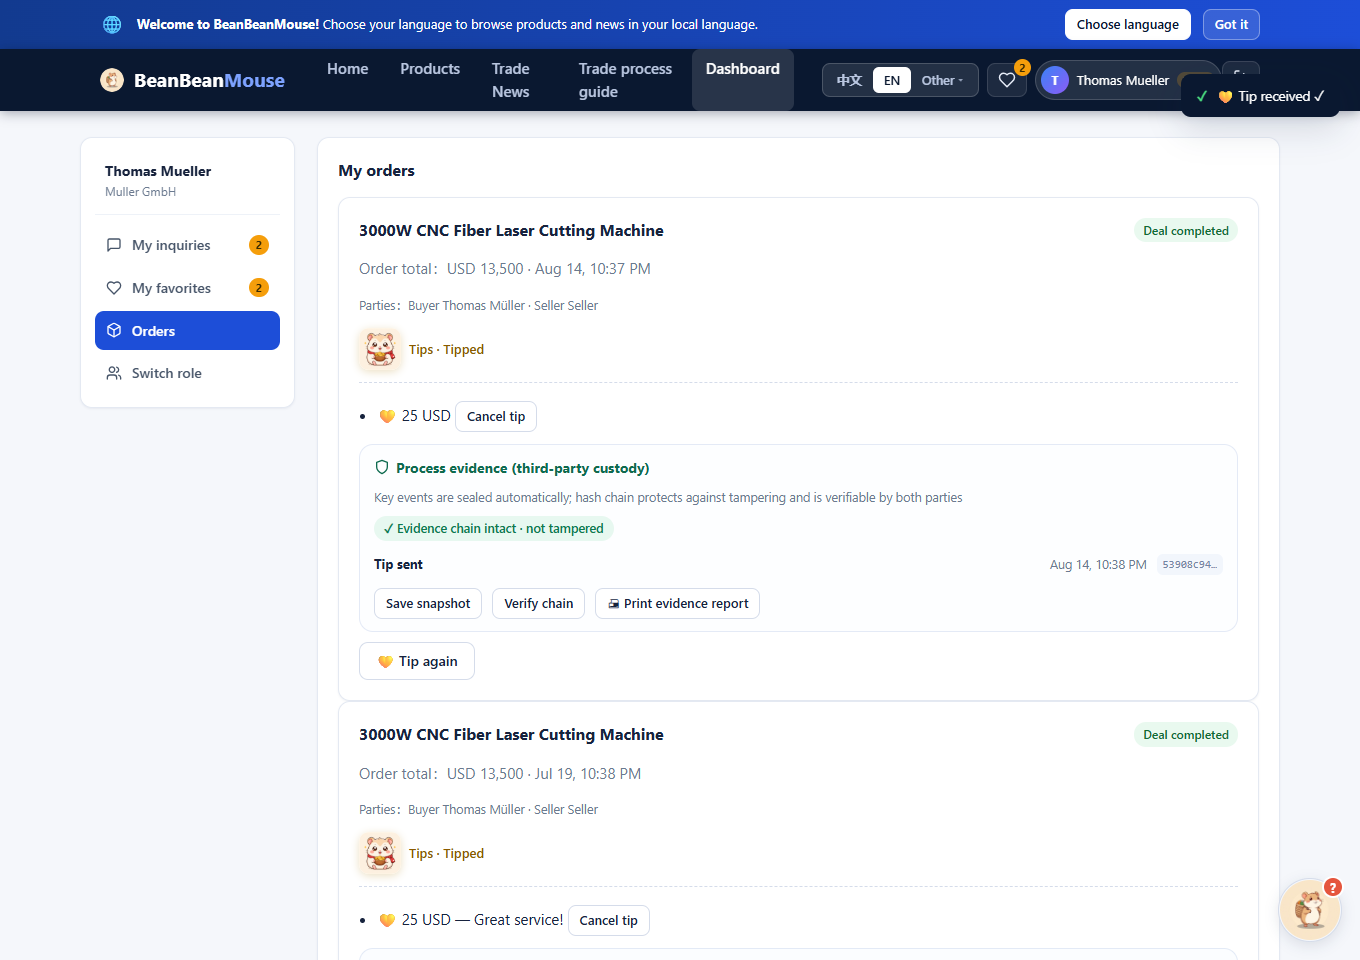
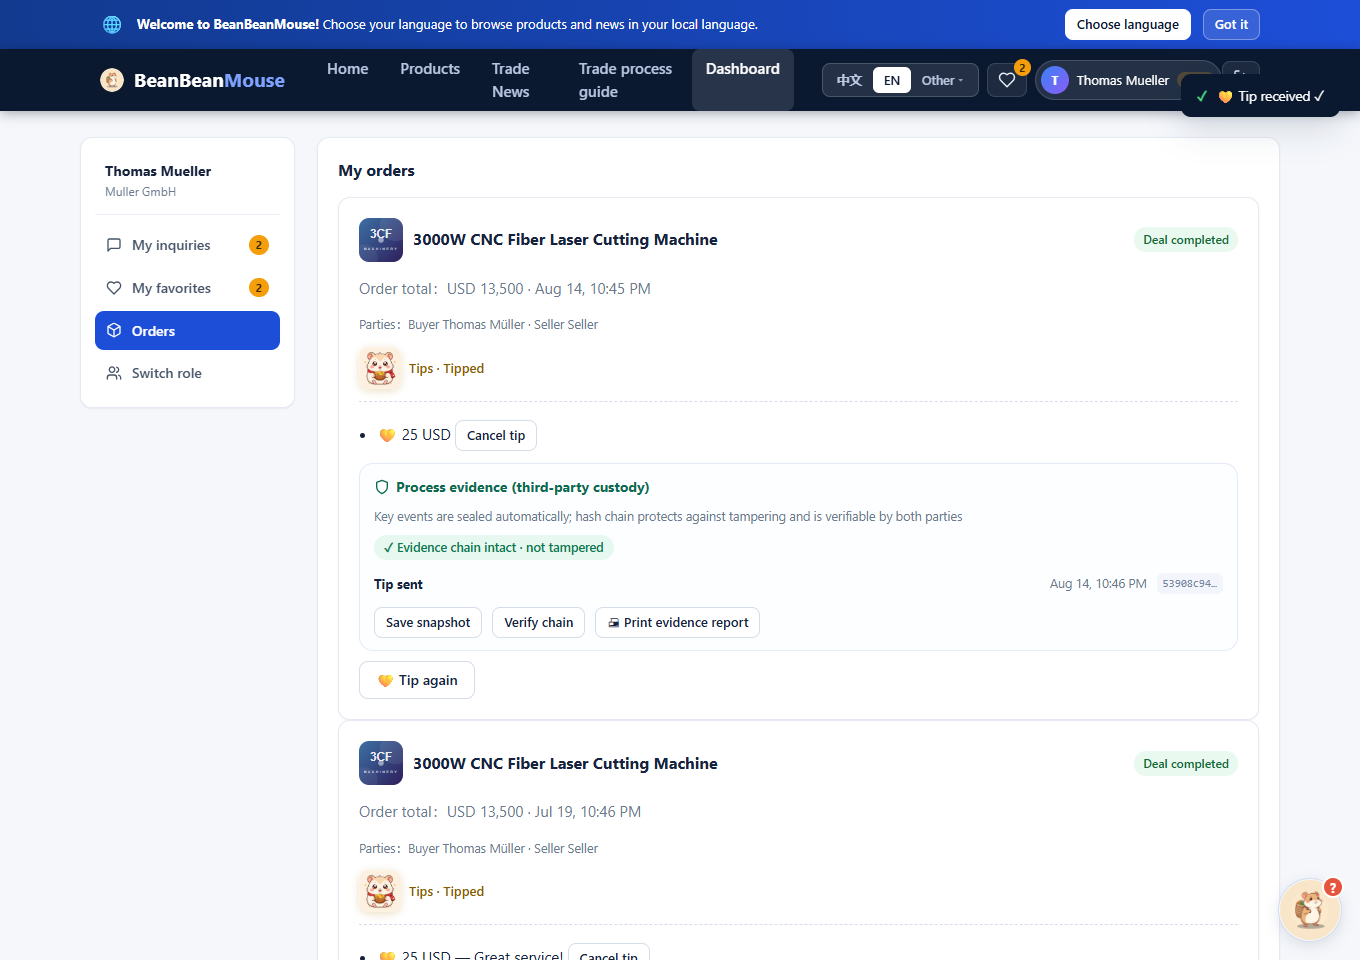
Frontend deep polish: modal focus trap + scroll lock + aria-labelledby, action-button anti double-click with 20s safety, tip quick amounts, order thumbnails, evidence report seal/QR & print breaks, small-screen modal fit, aria states; tests extended

diff --git a/app.js b/app.js
@@ -428,7 +428,14 @@ document.addEventListener('submit', e => {
   const f = e.target;
   const btn = f.querySelector('button[type="submit"]');
   if (btn) { btn.disabled = true; btn.classList.add('busy'); }
-  const release = () => { if (btn) { btn.disabled = false; btn.classList.remove('busy'); } };
+  let released = false;
+  const release = () => {
+    if (released) return;
+    released = true;
+    clearTimeout(safety);
+    if (btn) { btn.disabled = false; btn.classList.remove('busy'); }
+  };
+  const safety = setTimeout(release, 20000);
   let p = null;
   if (f.dataset.form === 'inquiry-form') p = submitInquiry(f);
   else if (f.dataset.form === 'product-form') p = submitProduct(f);
@@ -443,6 +450,23 @@ document.addEventListener('submit', e => {
   else release();
 });
 
+/* 动作按钮防连点：禁用→执行→恢复，20 秒兜底防止卡死 */
+function runBusy(btn, fn) {
+  if (!btn) return Promise.resolve(fn && fn());
+  btn.disabled = true;
+  btn.classList.add('busy');
+  let released = false;
+  const release = () => {
+    if (released) return;
+    released = true;
+    clearTimeout(safety);
+    btn.disabled = false;
+    btn.classList.remove('busy');
+  };
+  const safety = setTimeout(release, 20000);
+  return Promise.resolve(fn && fn()).finally(release);
+}
+
 function handleAction(el) {
   const a = el.dataset.action;
   const id = el.dataset.id;
@@ -456,10 +480,15 @@ function handleAction(el) {
     case 'company-form': showModal(companyFormHtml()); break;
     case 'catreq-open': showModal(catReqFormHtml()); break;
     case 'order-create': createOrderFromInquiry(id); break;
-    case 'order-confirm': confirmOrderReceipt(id); break;
-    case 'order-cancel': cancelOrder(id); break;
+    case 'order-confirm': runBusy(el, () => confirmOrderReceipt(id)); break;
+    case 'order-cancel': runBusy(el, () => cancelOrder(id)); break;
     case 'tip-open': openTipModal(id); break;
-    case 'tip-send': sendTip(el.dataset.order); break;
+    case 'tip-send': runBusy(el, () => sendTip(el.dataset.order)); break;
+    case 'tip-quick': {
+      const inp = $('#tipAmountInput');
+      if (inp) inp.value = el.dataset.amount;
+      break;
+    }
     case 'tip-cancel': cancelTip(el.dataset.order, el.dataset.tip); break;
     case 'tip-skip': closeModal(); toast(t('tipSkipped')); break;
     case 'tip-dismiss': {
@@ -468,8 +497,8 @@ function handleAction(el) {
       render();
       break;
     }
-    case 'evidence-save': saveEvidenceSnapshot(id); break;
-    case 'evidence-verify': verifyOrderEvidence(id); break;
+    case 'evidence-save': runBusy(el, () => saveEvidenceSnapshot(id)); break;
+    case 'evidence-verify': runBusy(el, () => verifyOrderEvidence(id)); break;
     case 'evidence-print': openEvidencePrint(id); break;
     case 'shipment-create': openShipmentCreateModal(id); break;
     case 'shipment-event': openShipmentEventModal(id, el.dataset.shipment); break;
@@ -617,22 +646,43 @@ function handleAction(el) {
 
 /* ---------- 弹窗 / 提示 ---------- */
 let lastFocusedEl = null;
+function modalFocusables() {
+  const m = document.querySelector('#modalRoot .modal');
+  if (!m) return [];
+  return Array.from(m.querySelectorAll('a[href], button:not([disabled]), input:not([disabled]), select:not([disabled]), textarea:not([disabled]), [tabindex]:not([tabindex="-1"])'))
+    .filter(el => el.offsetParent !== null || el === document.activeElement);
+}
 function showModal(html) {
   lastFocusedEl = document.activeElement;
+  document.body.classList.add('modal-open');
   $('#modalRoot').innerHTML = '<div class="modal-mask" role="dialog" aria-modal="true"><div class="modal" data-stop="1" tabindex="-1">' + html + '</div></div>';
   const m = document.querySelector('#modalRoot .modal');
   if (m) {
-    const focusable = m.querySelector('input, select, textarea, button, [tabindex]:not([tabindex="-1"])');
+    const title = m.querySelector('.modal-head h3');
+    if (title) {
+      title.id = title.id || ('modalTitle' + Date.now());
+      m.setAttribute('aria-labelledby', title.id);
+    }
+    const focusable = modalFocusables()[0];
     if (focusable) focusable.focus();
     else m.focus();
   }
 }
 function closeModal() {
   $('#modalRoot').innerHTML = '';
+  document.body.classList.remove('modal-open');
   if (lastFocusedEl && lastFocusedEl.focus) lastFocusedEl.focus();
 }
 document.addEventListener('keydown', e => {
-  if (e.key === 'Escape' && $('#modalRoot').innerHTML) closeModal();
+  if (!$('#modalRoot').innerHTML) return;
+  if (e.key === 'Escape') { closeModal(); return; }
+  if (e.key === 'Tab') {
+    const f = modalFocusables();
+    if (!f.length) return;
+    const first = f[0], last = f[f.length - 1];
+    if (e.shiftKey && document.activeElement === first) { e.preventDefault(); last.focus(); }
+    else if (!e.shiftKey && document.activeElement === last) { e.preventDefault(); first.focus(); }
+  }
 });
 
 function toast(msg) {
@@ -649,9 +699,9 @@ function renderHeader() {
   document.documentElement.lang = uiLocale();
   document.documentElement.dir = (['ar', 'fa'].includes(state.lang) ? 'rtl' : 'ltr');
   $('#langSwitch').innerHTML = '<div class="lang-switch" role="group" aria-label="Language / 语言">'
-    + '<button type="button" class="lang-btn ' + (state.lang === 'zh' ? 'on' : '') + '" data-action="set-lang" data-lang="zh">中文</button>'
-    + '<button type="button" class="lang-btn ' + (state.lang === 'en' ? 'on' : '') + '" data-action="set-lang" data-lang="en">EN</button>'
-    + '<button type="button" class="lang-btn lang-btn--more' + (LANG_META.some(m => m.code !== 'zh' && m.code !== 'en' && m.code === state.lang) ? ' on' : '') + '" data-action="lang-more" title="' + t('otherLang') + '">' + t('otherLang') + ' <span class="lang-caret">▾</span></button>'
+    + '<button type="button" class="lang-btn ' + (state.lang === 'zh' ? 'on' : '') + '" data-action="set-lang" data-lang="zh" aria-pressed="' + (state.lang === 'zh') + '">中文</button>'
+    + '<button type="button" class="lang-btn ' + (state.lang === 'en' ? 'on' : '') + '" data-action="set-lang" data-lang="en" aria-pressed="' + (state.lang === 'en') + '">EN</button>'
+    + '<button type="button" class="lang-btn lang-btn--more' + (LANG_META.some(m => m.code !== 'zh' && m.code !== 'en' && m.code === state.lang) ? ' on' : '') + '"  data-action="lang-more" title="' + t('otherLang') + '" aria-pressed="' + LANG_META.some(m => m.code !== 'zh' && m.code !== 'en' && m.code === state.lang) + '">' + t('otherLang') + ' <span class="lang-caret">▾</span></button>'
     + '</div>';
   applyStaticI18n();
   const { path } = parseHash();
@@ -958,10 +1008,16 @@ function renderHelpContent() {
 }
 function toggleHelp() {
   const panel = $('#helpPanel');
+  const btn = document.querySelector('.help-btn');
   if (panel.hidden) { renderHelpContent(); panel.hidden = false; }
   else panel.hidden = true;
+  if (btn) btn.setAttribute('aria-expanded', String(!panel.hidden));
 }
-function closeHelp() { $('#helpPanel').hidden = true; }
+function closeHelp() {
+  $('#helpPanel').hidden = true;
+  const btn = document.querySelector('.help-btn');
+  if (btn) btn.setAttribute('aria-expanded', 'false');
+}
 
 function renderHome() {
   document.title = 'BeanBeanMouse · ' + t('heroTitle');
@@ -1568,7 +1624,7 @@ function orderCard(o) {
   const showTipCallout = o.status === 'complete' && !state.tipDismissed[o.id] && !tippedByMe;
   const activeTips = tips.filter(x => x.status === 'active');
   return '<div class="card panel">'
-    + '<div class="panel-head"><h2>' + esc(p ? langObj(p).title : o.productId) + '</h2><span class="status-pill ' + (o.status === 'complete' ? 'done' : o.status === 'cancelled' ? 'new' : '') + '">' + orderStatusLabel(o.status) + '</span></div>'
+    + '<div class="panel-head"><div class="order-head-main">' + (p ? '<img class="order-thumb" src="' + productImg(p, 80, 80) + '" alt="" loading="lazy">' : '') + '<h2>' + esc(p ? langObj(p).title : o.productId) + '</h2></div><span class="status-pill ' + (o.status === 'complete' ? 'done' : o.status === 'cancelled' ? 'new' : '') + '">' + orderStatusLabel(o.status) + '</span></div>'
     + '<p class="muted">' + t('orderTotal') + '：' + (o.currency || 'USD') + ' ' + Number(o.total).toLocaleString() + ' · ' + fmtDate(o.createdAt) + '</p>'
     + '<p class="small muted">' + t('party') + '：' + t('partyBuyer') + ' ' + esc(partyNameOf(o, 'buyer')) + ' · ' + t('partySeller') + ' ' + esc(partyNameOf(o, 'seller')) + '</p>'
     + (showTipCallout ? tipCalloutHtml(o) : '')
@@ -1606,6 +1662,7 @@ function tipModalHtml(o) {
     + (tippedByMe ? '<span class="tip-coins">🪙🪙🪙</span>' : '')
     + '</div>'
     + '<p class="muted" style="text-align:center">' + (tippedByMe ? t('tipAgain') : t('tipHint')) + '</p>'
+    + '<div class="tip-chips" role="group" aria-label="' + esc(t('tipAmount')) + '">' + [5, 10, 25, 50, 100].map(v => '<button type="button" class="chip" data-action="tip-quick" data-amount="' + v + '">$' + v + '</button>').join('') + '</div>'
     + '<div class="field"><label>' + t('tipAmount') + ' *</label><input class="input" id="tipAmountInput" type="number" min="0.01" max="10000" step="0.01" placeholder="5"></div>'
     + '<div class="field"><label>' + t('tipNote') + '</label><input class="input" id="tipNoteInput" maxlength="200"></div>'
     + '<button type="button" class="btn btn-primary btn-block" data-action="tip-send" data-order="' + o.id + '">' + t('tipSend') + '</button>'
@@ -1725,6 +1782,7 @@ async function verifyOrderEvidence(orderId) {
 }
 function buildEvidenceReport(o, evs, verified) {
   const no = 'BBM-EV-' + String(o.id).replace(/[^A-Za-z0-9]/g, '').toUpperCase().slice(0, 12) + '-' + new Date().getTime().toString(36).toUpperCase().slice(-4);
+  const p = productById(o.productId);
   const dateFmt = ts => new Date(ts).toLocaleString(uiLocale());
   return '<div class="doc" id="docSheet">'
     + '<div class="doc-head">'
@@ -1735,7 +1793,11 @@ function buildEvidenceReport(o, evs, verified) {
     + '<span><b>' + t('docNo') + '：</b>' + esc(no) + '</span>'
     + '<span><b>' + t('docDate') + '：</b>' + dateFmt(Date.now()) + '</span>'
     + '<span><b>' + t('orderTotal') + '：</b>' + (o.currency || 'USD') + ' ' + Number(o.total || 0).toLocaleString() + '</span>'
-    + '<span><b>' + t('party') + '：</b>' + esc(partyNameOf(o, 'buyer')) + ' ↔ ' + esc(partyNameOf(o, 'seller')) + '</span>'
+    + '<span><b>' + t('evidenceVerifiedAt') + '：</b>' + dateFmt(Date.now()) + '</span>'
+    + '</div>'
+    + '<div class="doc-parties">'
+    + '<div><div class="doc-party-label">' + t('orderTotal') + ' / ' + t('orderStatusCreated') + '</div><b>' + (o.currency || 'USD') + ' ' + Number(o.total || 0).toLocaleString() + '</b><div>' + orderStatusLabel(o.status) + '</div></div>'
+    + '<div><div class="doc-party-label">' + t('party') + '</div><b>' + esc(partyNameOf(o, 'buyer')) + ' ↔ ' + esc(partyNameOf(o, 'seller')) + '</b><div>' + esc(p ? langObj(p).title : o.id) + '</div></div>'
     + '</div>'
     + '<table class="doc-table">'
     + '<thead><tr><th>#</th><th>' + esc(t('evidenceTitle')) + '</th><th>' + esc(t('evidenceVerifiedAt')) + '</th><th>' + esc(t('evidenceHash')) + '</th></tr></thead>'
@@ -1744,6 +1806,8 @@ function buildEvidenceReport(o, evs, verified) {
     ).join('') + '</tbody>'
     + '</table>'
     + '<div class="ev-report-verdict ' + (verified ? 'ok' : 'bad') + '">' + (verified ? '✓ ' + t('evReportSealed') : '✗ ' + t('evReportBroken')) + '</div>'
+    + '<div class="ev-seal"><div class="ev-qr">' + fakeQrSvg(no + '|' + evs.length + '|' + (verified ? 'OK' : 'BAD')) + '</div>'
+    + '<div class="ev-seal-txt"><b>BeanBeanMouse</b><div>' + esc(t('evReportSub')) + '</div><div class="muted small">' + esc(t('evidenceVerifiedAt')) + '：' + dateFmt(Date.now()) + '</div></div></div>'
     + '<div class="doc-sign"><div>' + t('docSellerSign') + '</div><div>' + t('docBuyerSign') + '</div></div>'
     + '<div class="doc-disclaimer">' + t('evReportNote') + '</div>'
     + '</div>';

diff --git a/styles.css b/styles.css
@@ -964,3 +964,28 @@ button { font-family: inherit; }
 @media (prefers-reduced-motion: reduce) {
   *, *::before, *::after { animation-duration: .01ms !important; animation-iteration-count: 1 !important; transition-duration: .01ms !important; }
 }
+
+/* ---------- 弹窗增强（焦点陷阱 / 滚动锁定 / 小屏适配） ---------- */
+body.modal-open { overflow: hidden; }
+.modal { max-height: 88vh; overflow-y: auto; }
+@media (max-width: 560px) {
+  .modal-mask { padding: 3vh 10px 12px; }
+  .doc-modal .modal-body { max-height: 66vh; }
+}
+@media print { .doc, .doc .doc-table, .doc .ev-seal { page-break-inside: avoid; } }
+
+/* ---------- 打赏快捷金额 ---------- */
+.tip-chips { display: flex; gap: 8px; flex-wrap: wrap; margin: 2px 0 10px; }
+.tip-chips .chip { border: 1px solid #E2E9F4; background: #F5F8FE; color: #2E4A7A; font-size: 13px; font-weight: 600; padding: 5px 12px; border-radius: 99px; cursor: pointer; transition: all .15s; }
+.tip-chips .chip:hover, .tip-chips .chip:focus-visible { background: var(--primary); color: #fff; border-color: var(--primary); outline: none; }
+
+/* ---------- 订单缩略图 ---------- */
+.order-head-main { display: flex; align-items: center; gap: 10px; min-width: 0; }
+.order-thumb { width: 44px; height: 44px; border-radius: 10px; object-fit: cover; flex: none; }
+.order-head-main h2 { margin: 0; overflow-wrap: anywhere; }
+
+/* ---------- 存证报告印章 / 二维码 ---------- */
+.ev-seal { display: flex; align-items: center; gap: 14px; margin: 12px 0; padding: 12px 14px; border: 1px dashed #CBD8EA; border-radius: 12px; background: #F8FAFD; }
+.ev-qr svg { width: 64px; height: 64px; display: block; }
+.ev-seal-txt { font-size: 12.5px; color: #4A5A78; }
+.ev-seal-txt b { color: #16233F; font-size: 14px; display: block; margin-bottom: 2px; }

diff --git a/index.html b/index.html
@@ -85,7 +85,7 @@
       </div>
       <div class="help-body" id="helpBody"></div>
     </div>
-    <button type="button" class="help-btn" data-action="toggle-help" title="网站使用帮助" aria-label="网站使用帮助">
+    <button type="button" class="help-btn" data-action="toggle-help" title="网站使用帮助" aria-label="网站使用帮助" aria-expanded="false">
       <img src="assets/mascot.jpg" alt="BeanBeanMouse help" width="64" height="64">
       <span class="help-badge">?</span>
     </button>

diff --git a/project-history/decisions.md b/project-history/decisions.md
@@ -299,3 +299,10 @@
   - 订单卡片显示交易双方名称；修复移动端顶栏 5 项导航与仪表盘/统计卡横向溢出；
   - 增加 prefers-reduced-motion 减弱动效适配。
 - **测试**：前端回归全绿（含 ESC、空碗→金币、存证报告、移动端无溢出）；截图 26-31。
+### D27 补充（深挖优化）
+- 弹窗焦点陷阱（Tab 循环）+ 背景滚动锁定 + aria-labelledby 自动关联标题；
+- 动作按钮防连点（runBusy，20 秒兜底）；表单提交按钮同样带 20 秒防卡死；
+- 打赏弹窗新增快捷金额（$5/10/25/50/100）；订单卡片新增产品缩略图；
+- 存证报告新增订单摘要、平台印章与防伪二维码（fake QR 演示），打印分页优化；
+- 语言按钮 aria-pressed、帮助按钮 aria-expanded；小屏弹窗适配（560px）；
+- 测试新增：焦点陷阱、快捷金额、缩略图、报告印章/QR、320px 无溢出、ARIA 属性。
